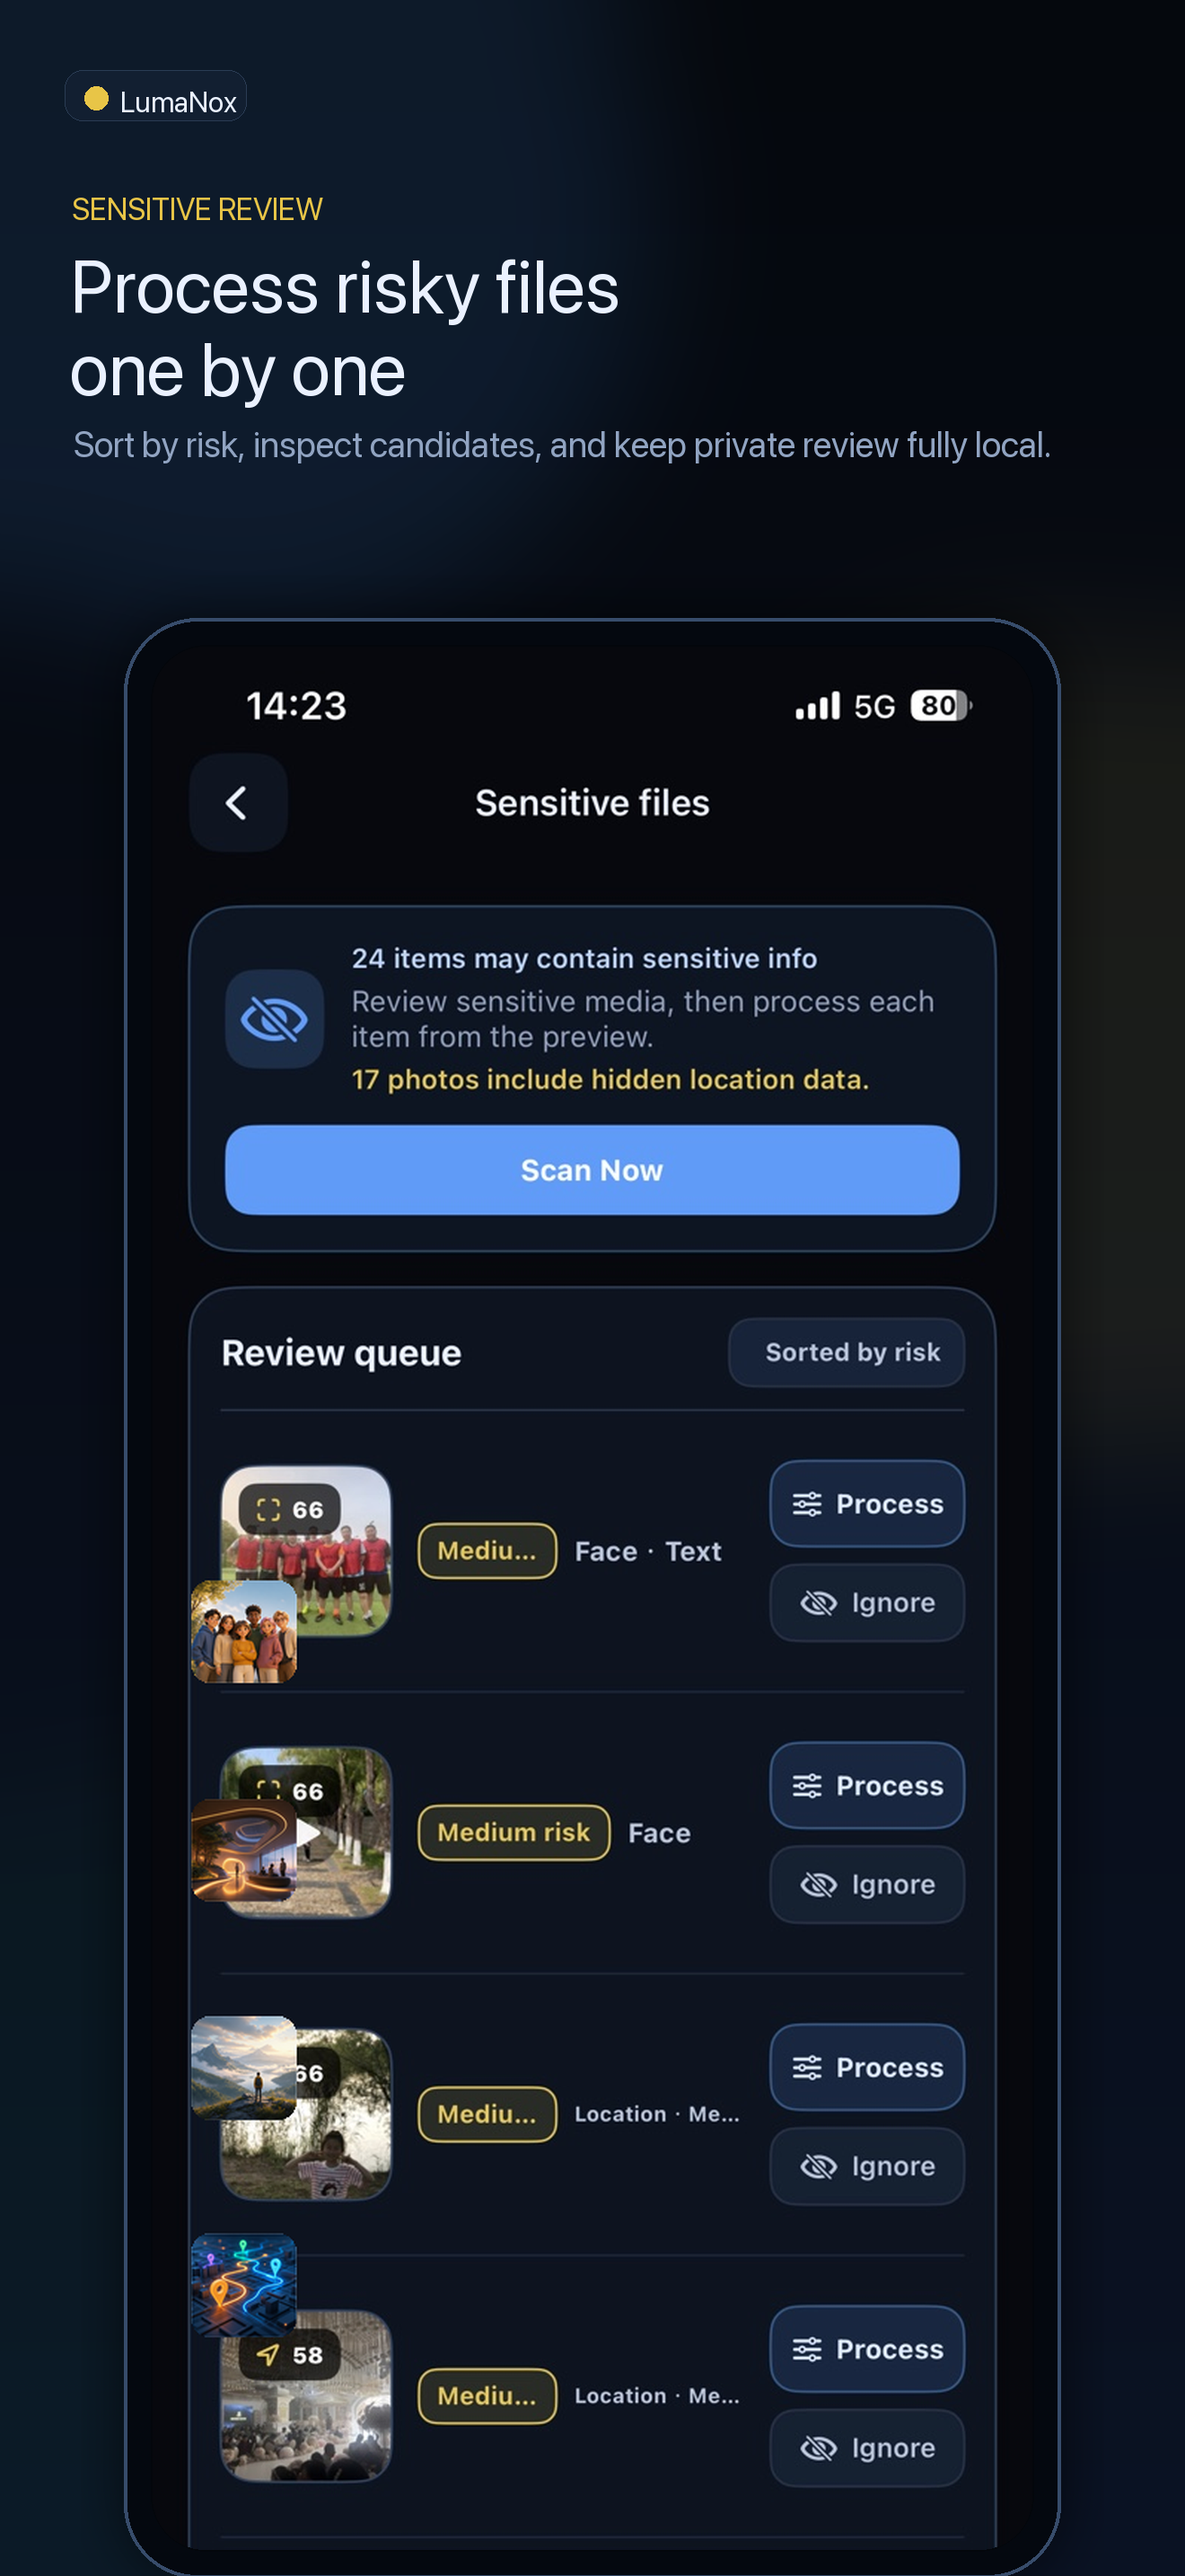
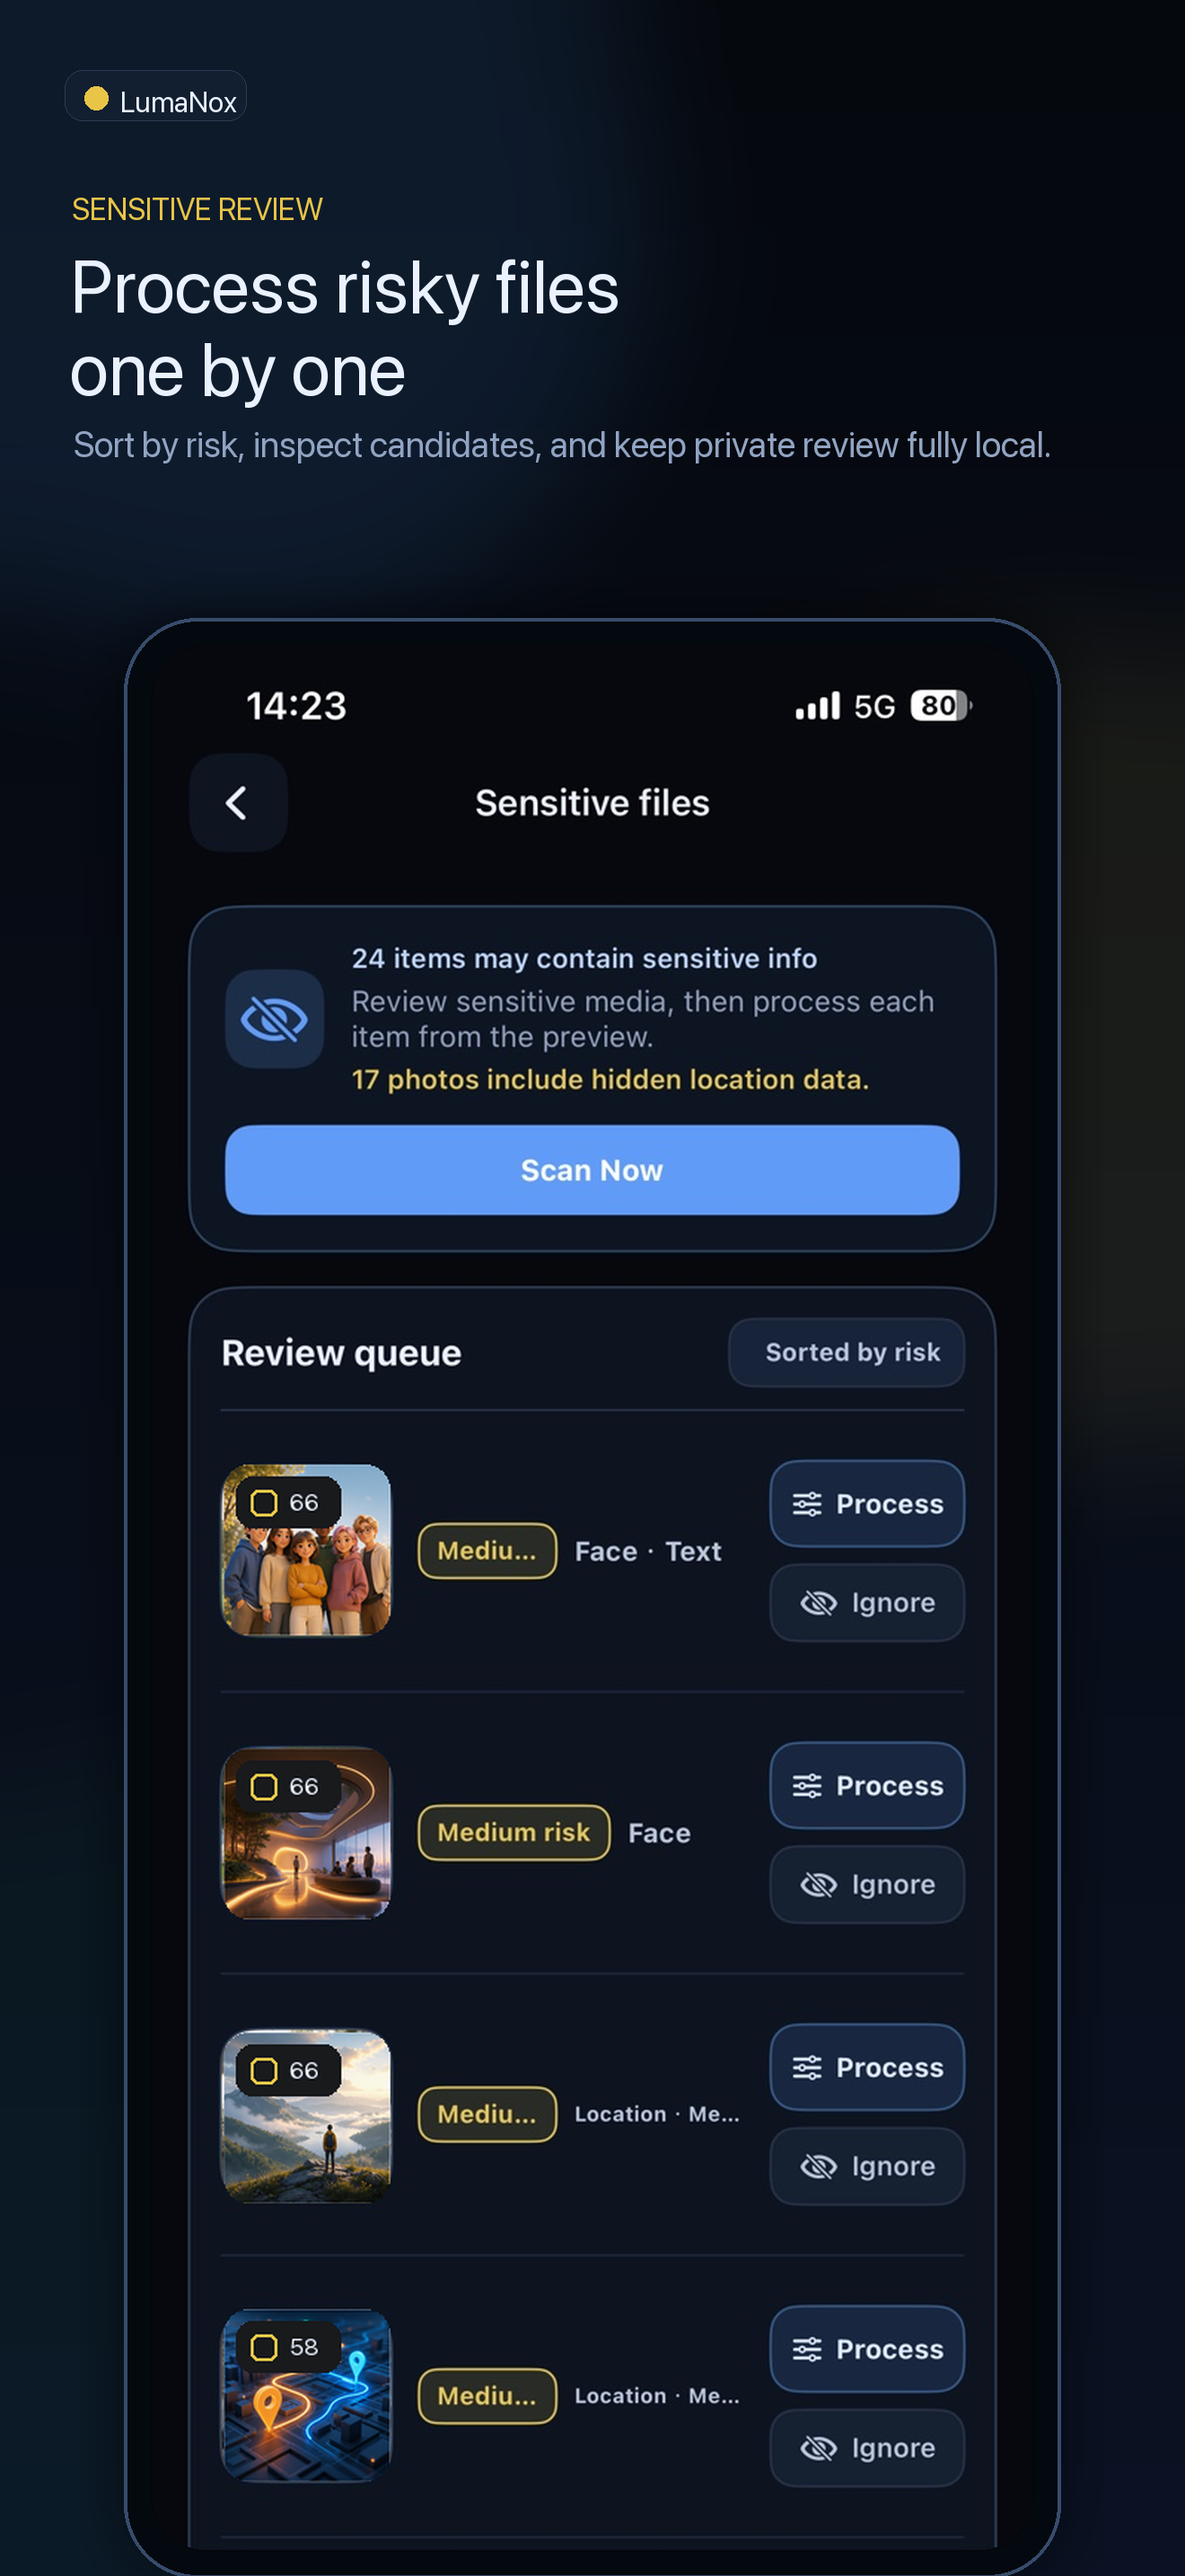
Fix App Store screenshot image replacements

Changed region(s): [[0.1553, 0.7758, 0.3417, 0.962], [0.1553, 0.5586, 0.3417, 0.7448]]

diff --git a/marketing/app-store/generate_iphone_6_9_screenshots_apple_reg_111.py b/marketing/app-store/generate_iphone_6_9_screenshots_apple_reg_111.py
@@ -170,26 +170,31 @@ def sanitize_capture(path: Path) -> Image.Image:
     elif name == "IMG_7492.PNG.JPG":
         tiles = thumbnail_tiles()
         boxes = [
-            (26, 628, 97, 697),
-            (26, 775, 97, 844),
-            (26, 921, 97, 991),
-            (26, 1067, 97, 1137),
+            (48, 550, 160, 665),
+            (48, 741, 160, 856),
+            (48, 932, 160, 1047),
+            (48, 1118, 160, 1234),
         ]
+        d = ImageDraw.Draw(img)
         for index, box in enumerate(boxes):
-            paste_rounded(img, tiles[index % len(tiles)], box, 12)
+            paste_rounded(img, tiles[index % len(tiles)], box, 16)
+            badge = (box[0] + 8, box[1] + 8, box[0] + 78, box[1] + 42)
+            d.rounded_rectangle(badge, radius=11, fill=(26, 28, 31, 232))
+            d.text((badge[0] + 36, badge[1] + 7), "66" if index < 3 else "58", font=font(16, True), fill=TEXT)
+            d.rounded_rectangle((badge[0] + 10, badge[1] + 9, badge[0] + 27, badge[1] + 26), radius=5, outline=AMBER, width=2)
     elif name == "IMG_7493.PNG.JPG":
-        photo_box = (96, 407, 499, 754)
+        photo_box = (62, 303, 530, 654)
         group = Image.open(GROUP_PHOTO).convert("RGBA")
         paste_rounded(img, fit_cover(group, (photo_box[2] - photo_box[0], photo_box[3] - photo_box[1])), photo_box, 16)
         face_boxes = [
-            (116, 565, 154, 620),
-            (166, 530, 212, 590),
-            (226, 596, 274, 654),
-            (286, 590, 336, 652),
-            (340, 526, 388, 590),
-            (392, 588, 442, 650),
-            (448, 568, 492, 632),
-            (310, 548, 350, 600),
+            (82, 458, 121, 516),
+            (137, 423, 184, 486),
+            (202, 490, 250, 550),
+            (262, 484, 314, 548),
+            (320, 421, 370, 488),
+            (374, 482, 426, 548),
+            (435, 462, 482, 528),
+            (288, 444, 330, 498),
         ]
         for box in face_boxes:
             apply_mosaic(img, box, 7)
